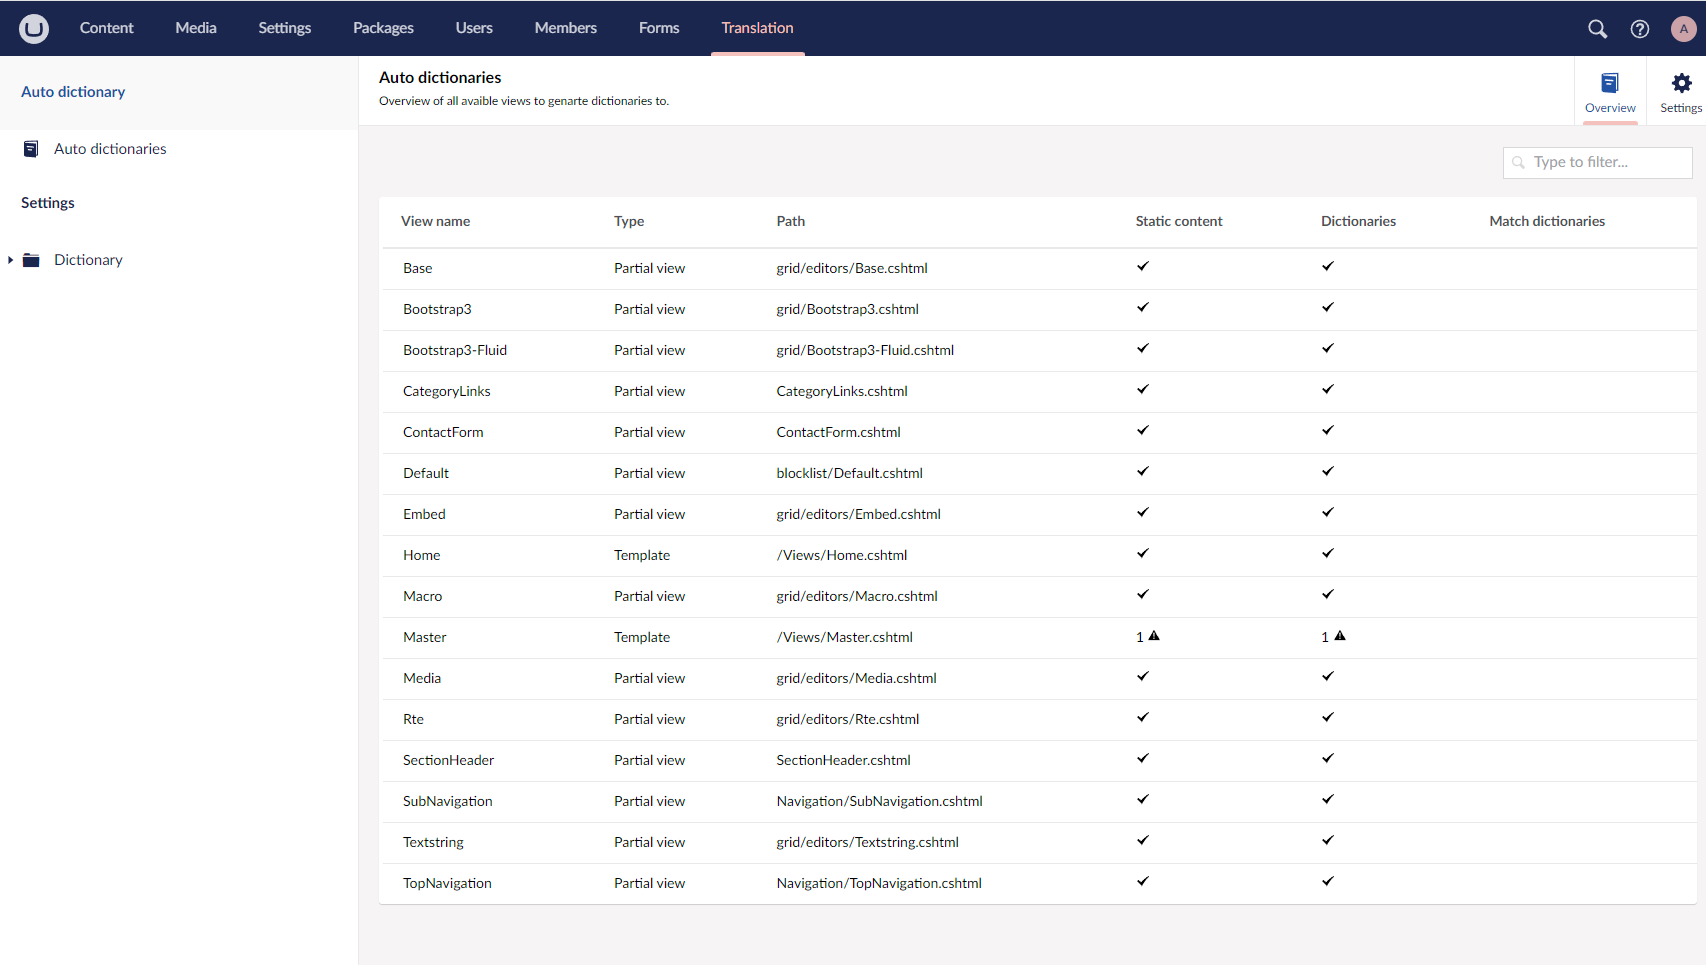
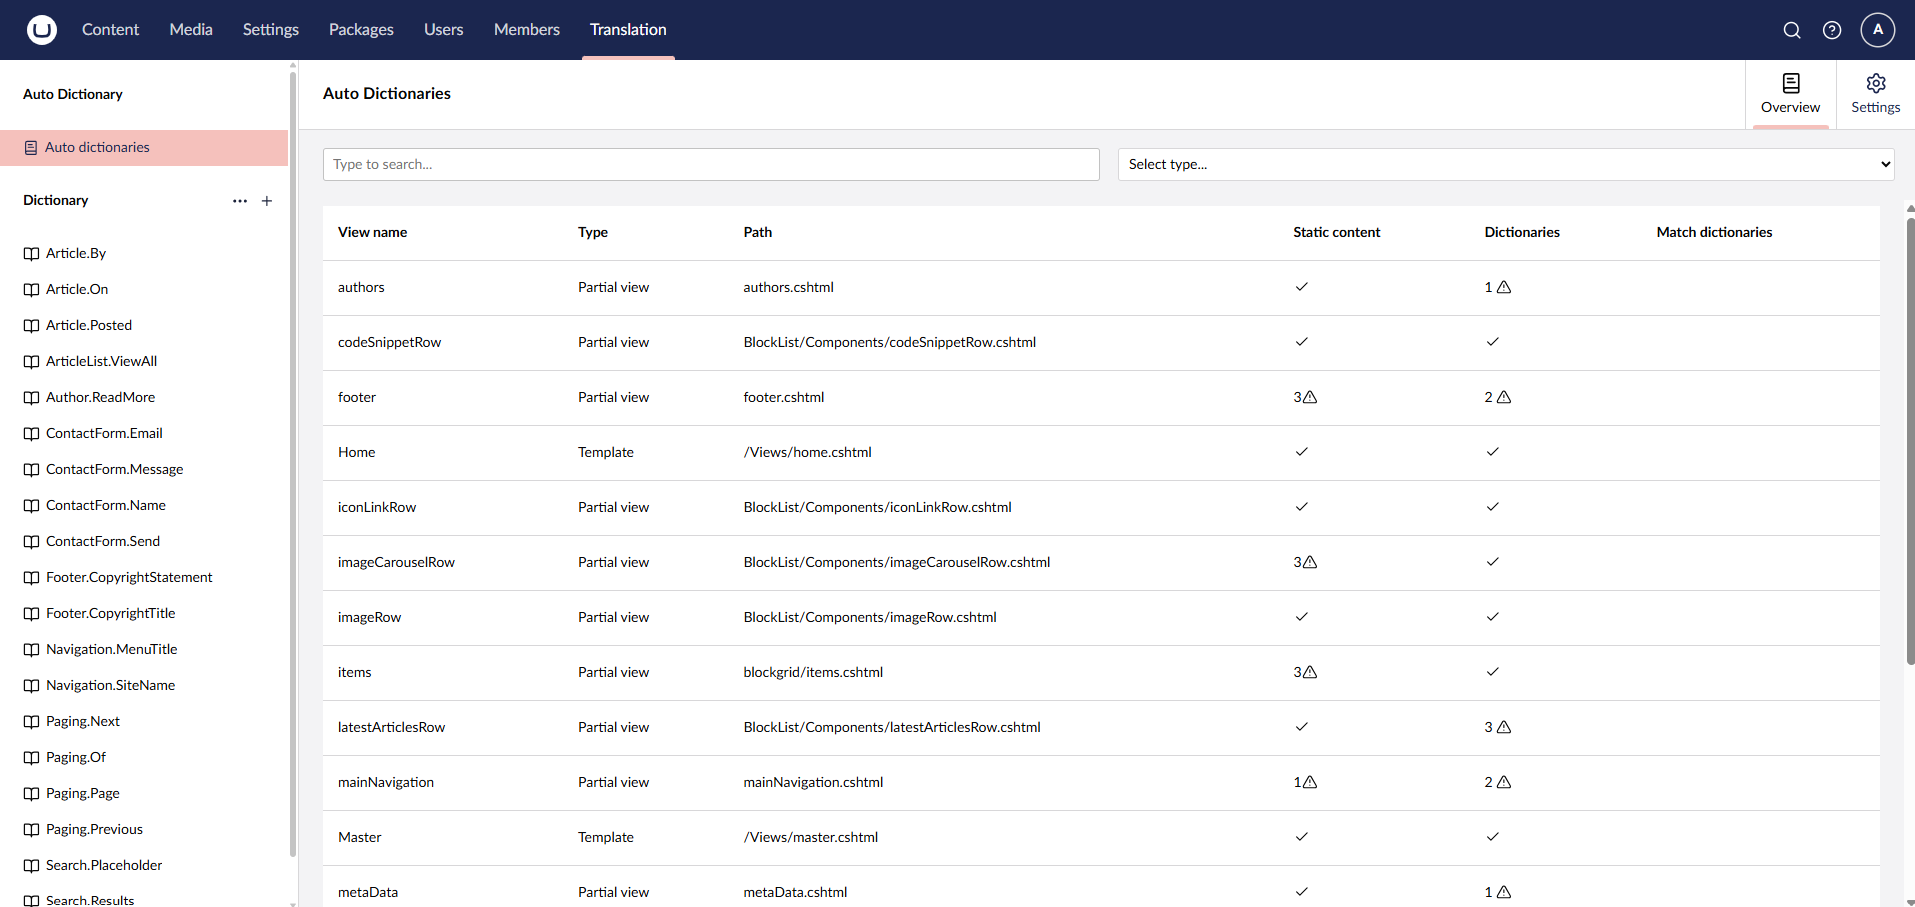
Updated screenshots

diff --git a/README.md b/README.md
@@ -101,19 +101,19 @@ If you find this package helpful, please:
 ## 📸 Screenshots
 
 ### Overview Dashboard
-![Dashboard](assets/dashboard.PNG)
+![Dashboard](assets/dashboard.png)
 
 ### Generating Dictionaries
 ![Generate](assets/generate.gif)
 
-### Translating Existing Dictionary Items
-![Translate](assets/translate_existing.gif)
-
 ### Settings Panel
-![Settings](assets/settings.PNG)
+![Settings](assets/settings.png)
 
 ### Edit View
-![Edit](assets/edit.PNG)
+![Edit](assets/edit.png)
 
-### Dictionary Selection
-![Select](assets/select.PNG)
+### Edit View
+![Edit preview](assets/edit-preview.png)
+
+### Edit Translate
+![Edit](assets/edit-translate.png)
